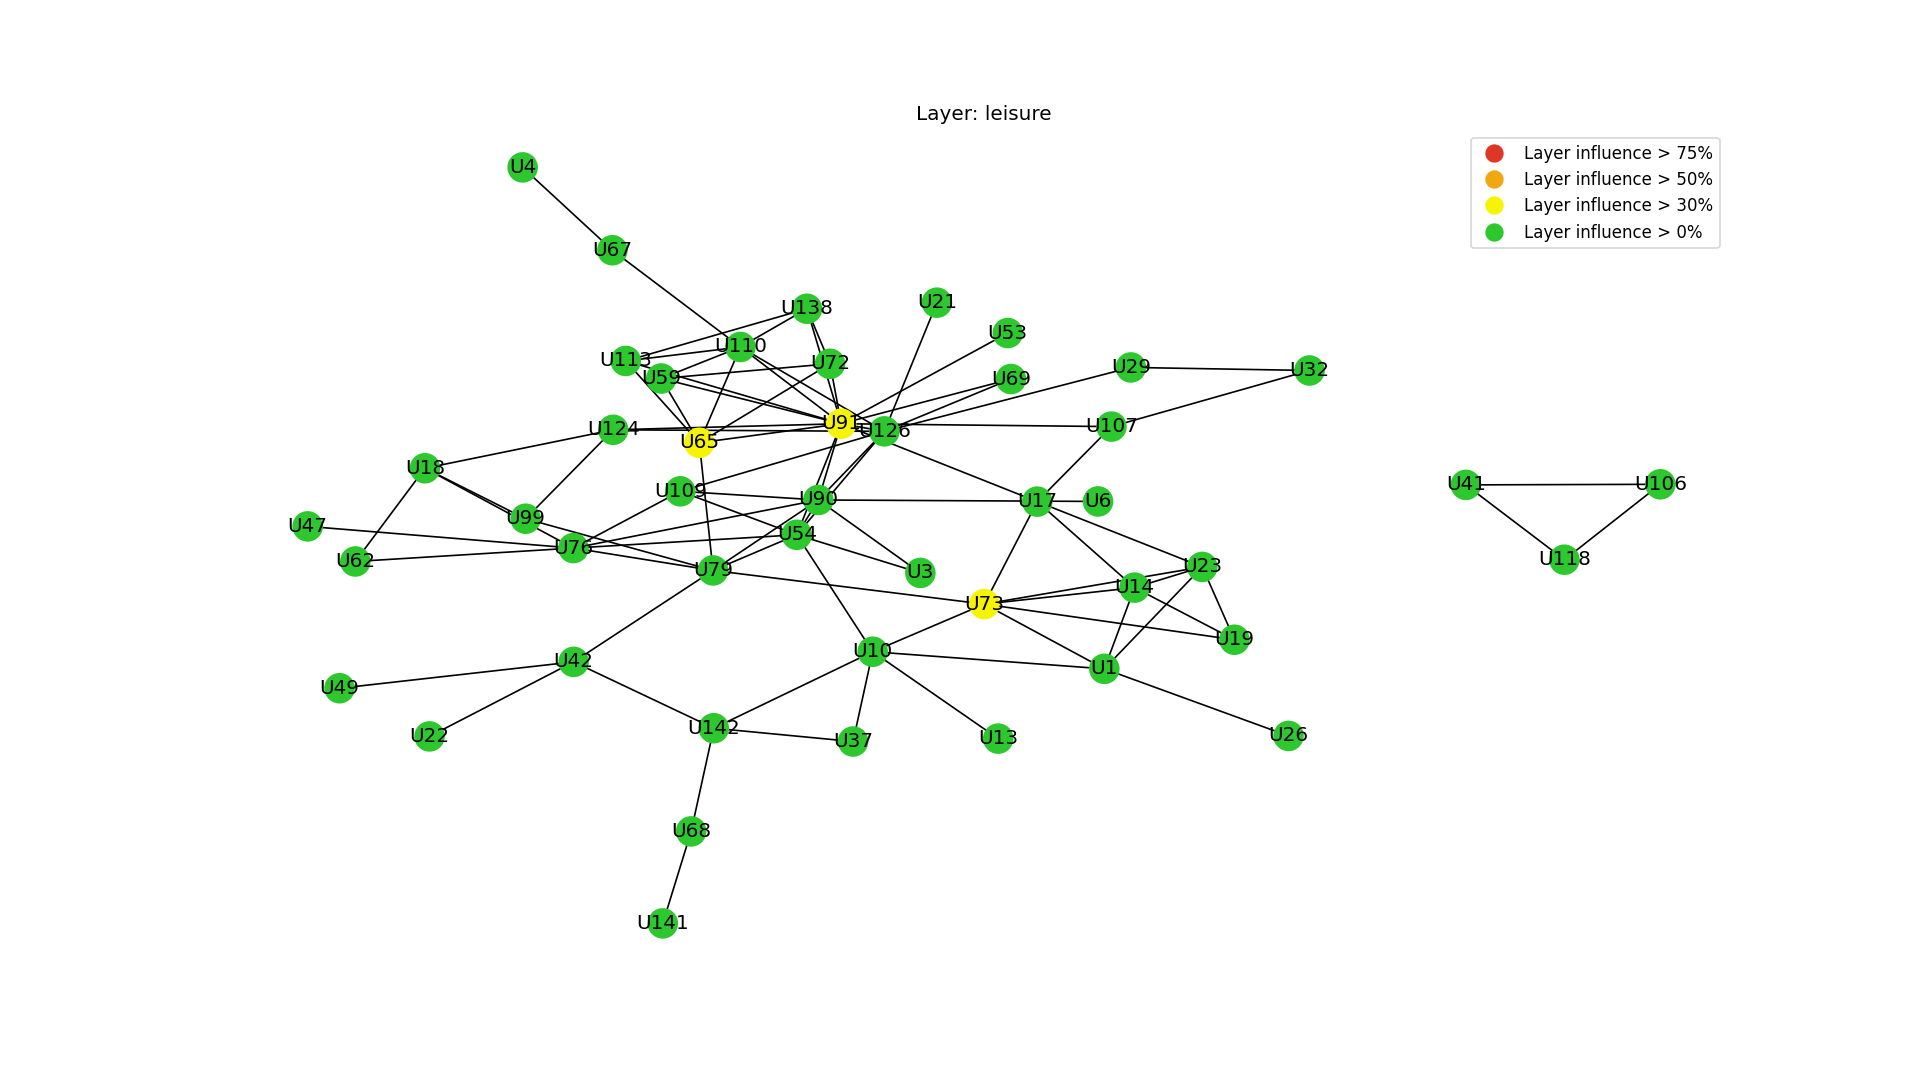
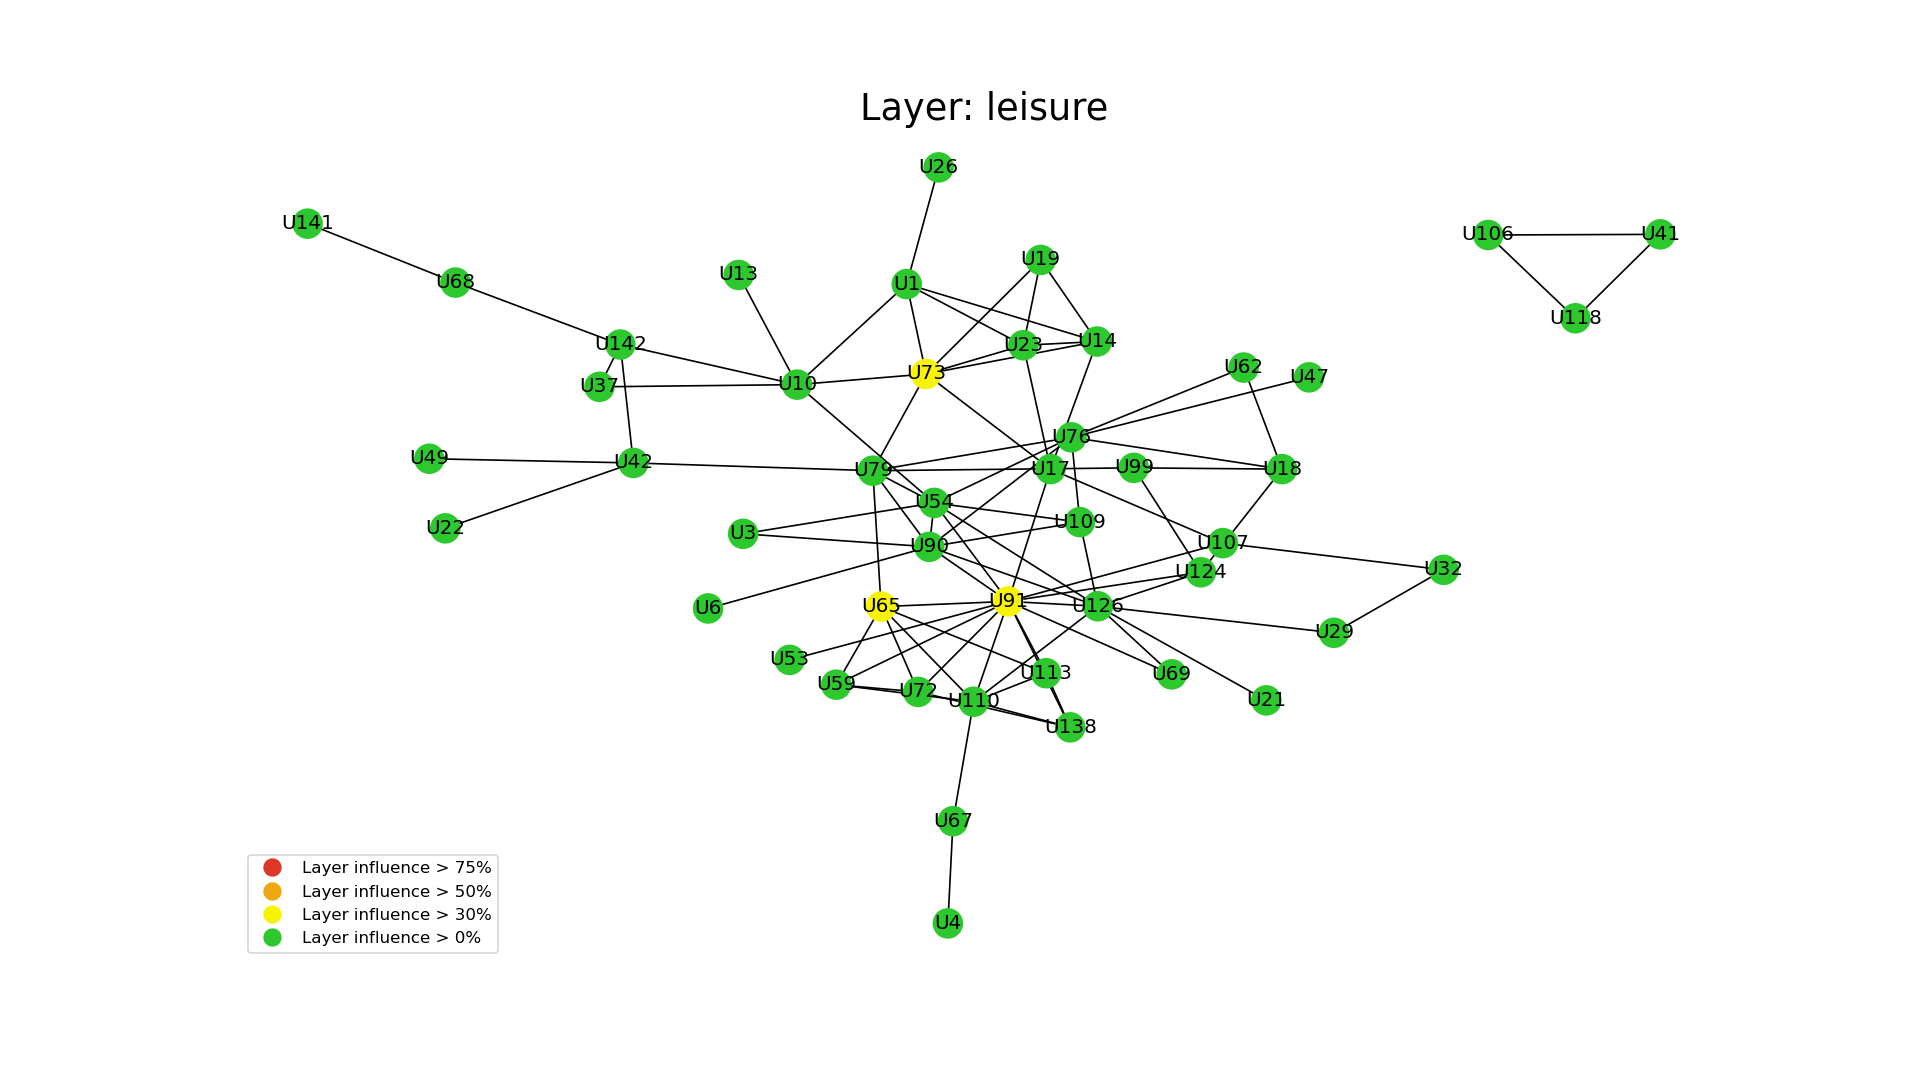
Refactors EigenvectorCentralityHelper to SubgraphCentralityHelper and adds subgraph centrality results

diff --git a/main/main_degree.py b/main/main_degree.py
@@ -20,7 +20,6 @@ centrality_helper = DegreeCentralityHelper(nx_layer_dict)
 
 nodes_layer_centrality_dict = compute_multinet_layer_centrality(nx_layer_dict, node_list, centrality_helper)
 nodes_shannon_entropy_dict = compute_shannon_entropy(nodes_layer_centrality_dict)
-# nodes_cluster_label_dict = compute_clusters(nodes_layer_centrality_dict, 3, 3, False)
 
 '''
 create_layer_combinations_node_communities(
@@ -38,6 +37,17 @@ results_data_frame['shannon_entropy'] = Series(nodes_shannon_entropy_dict, index
 results_data_frame.loc['mean'] = results_data_frame.mean()
 results_data_frame = results_data_frame.round(2)
 
+draw_results_layers(
+    DATASET_NAME,
+    centrality_helper.centrality_measure_name,
+    multilayered_network,
+    nodes_layer_centrality_dict,
+    True
+)
+
+save_results_data_frame_as_xlsx(DATASET_NAME, centrality_helper.centrality_measure_name, results_data_frame,
+                                1, 1, len(results_data_frame)-1, 5)
+
 '''
 degree_centrality_analysis_data_frame_list = [
     centralityHelper.get_node_degree_centrality_analysis(nx_layer_dict, nodes_layer_centrality_dict, 'U18'),
@@ -53,21 +63,13 @@ degree_centrality_analysis_data_frame_list = [
 draw_flattened_network_clustering_results(DATASET_NAME, centrality_helper.centrality_measure_name, data(DATASET_NAME),
                                           nodes_cluster_label_dict, True)
 
-draw_results_layers(DATASET_NAME, centrality_helper.centrality_measure_name, multilayered_network, nodes_layer_centrality_dict, True)
-
 plot_results_histograms(DATASET_NAME, centrality_helper.centrality_measure_name, results_data_frame,
                         vertices(multilayered_network)["layer"], 'Centrality Value', 'Number of Nodes',
                         20, 5, True)
+                        
 plot_results_histograms(DATASET_NAME, centrality_helper.centrality_measure_name, results_data_frame, 'shannon_entropy',
                         'Shannon Entropy Value', 'Number of Nodes', 3, 1, True)
 
 save_results_analysis_data_frames_as_xlsx(DATASET_NAME, centrality_helper.centrality_measure_name,
                                           degree_centrality_analysis_data_frame_list)
 '''
-
-save_results_data_frame_as_xlsx(DATASET_NAME, centrality_helper.centrality_measure_name, results_data_frame,
-                                1, 1, len(results_data_frame)-1, 5)
-
-# print(pd.DataFrame.from_dict(targetsShapleyValueDict).T)
-# targetsClusterDataFrame = computeClusters(targetsShapleyValueDict, 2, 3)
-# print(targetsClusterDataFrame)

diff --git a/main/main_subgraph.py b/main/main_subgraph.py
@@ -8,7 +8,7 @@ from utils.data_helper import draw_layers, get_node_connections_on_layers
 from utils.results_helper import plot_results_histograms, draw_results_layers, \
     save_results_analysis_data_frames_as_xlsx, save_results_data_frame_as_xlsx, \
     draw_flattened_network_clustering_results, draw_network_clustering_results
-from utils.EigenvectorCentralityHelper import EigenvectorCentralityHelper
+from utils.SubgraphCentralityHelper import SubgraphCentralityHelper
 
 DATASET_NAME = "aucs"
 
@@ -16,7 +16,7 @@ multilayered_network = data(DATASET_NAME)
 node_list = sorted(set(vertices(multilayered_network)["actor"]))
 nx_layer_dict = to_nx_dict(multilayered_network)
 
-centrality_helper = EigenvectorCentralityHelper(nx_layer_dict)
+centrality_helper = SubgraphCentralityHelper(nx_layer_dict)
 
 nodes_layer_centrality_dict = compute_multinet_layer_centrality(nx_layer_dict, node_list, centrality_helper)
 nodes_shannon_entropy_dict = compute_shannon_entropy(nodes_layer_centrality_dict)
@@ -26,5 +26,13 @@ results_data_frame['shannon_entropy'] = Series(nodes_shannon_entropy_dict, index
 results_data_frame.loc['mean'] = results_data_frame.mean()
 results_data_frame = results_data_frame.round(2)
 
+draw_results_layers(
+    DATASET_NAME,
+    centrality_helper.centrality_measure_name,
+    multilayered_network,
+    nodes_layer_centrality_dict,
+    True
+)
+
 save_results_data_frame_as_xlsx(DATASET_NAME, centrality_helper.centrality_measure_name, results_data_frame,
-                                1, 1, len(results_data_frame)-1, 5)
+                                1, 1, len(results_data_frame) - 1, 5)

diff --git a/main_test_network/main_test_subgraph.py b/main_test_network/main_test_subgraph.py
@@ -3,7 +3,7 @@ from pandas import DataFrame, Series
 from uunet.multinet import read, vertices, to_nx_dict
 from algo.layer_centrality import compute_multinet_layer_centrality
 from algo.analysis import compute_shannon_entropy
-from utils.EigenvectorCentralityHelper import EigenvectorCentralityHelper
+from utils.SubgraphCentralityHelper import SubgraphCentralityHelper
 
 project_root_path = dirname(dirname(__file__))
 
@@ -11,7 +11,7 @@ multi_layered_network = read("{0}/resources/test_network.txt".format(project_roo
 nodeList = sorted(set(vertices(multi_layered_network)["actor"]))
 nx_layer_dict = to_nx_dict(multi_layered_network)
 
-centrality_helper = EigenvectorCentralityHelper()
+centrality_helper = SubgraphCentralityHelper(nx_layer_dict)
 
 nodes_layer_centrality_dict = compute_multinet_layer_centrality(nx_layer_dict, nodeList, centrality_helper)
 nodes_shannon_entropy_dict = compute_shannon_entropy(nodes_layer_centrality_dict)

diff --git a/utils/SubgraphCentralityHelper.py b/utils/SubgraphCentralityHelper.py
@@ -1,0 +1,23 @@
+from networkx import subgraph_centrality
+from utils.CentralityHelper import CentralityHelper
+
+
+class SubgraphCentralityHelper(CentralityHelper):
+
+    centrality_measure_name = "subgraph_centrality"
+
+    def __init__(self, nx_layer_dict):
+        super().__init__(nx_layer_dict)
+
+    def get_node_centrality_dict(self, flattened_layer):
+        """
+        Returns a dictionary which contains the subgraph centrality measure for each node in :param flattened_layer,
+        obtained from a combination of layers.
+
+        :param flattened_layer: Networkx network which represents a flattened multilayered network, to which
+        the subgraph centrality measure is applied.
+        :return: Dictionary of subgraph centrality values for all nodes in the flattened network obtained from the
+        combination of layers.
+        """
+
+        return subgraph_centrality(flattened_layer)

diff --git a/utils/results_helper.py b/utils/results_helper.py
@@ -1,4 +1,5 @@
 import matplotlib.pyplot as plt
+from matplotlib import rcParams
 from matplotlib.lines import Line2D
 from uunet.multinet import to_nx_dict, flatten, layers
 from networkx import draw, nx_agraph
@@ -6,8 +7,13 @@ from pandas import set_option, ExcelWriter
 from os.path import dirname
 
 # Module scope settings
+
+# Pandas settings
 set_option('display.width', 1000)
 set_option('max.columns', 20)
+
+# Matplotlib settings
+# rcParams.update({'font.size': 22})
 
 """
 Dictionary containing settings for each class of layer influence.
@@ -76,7 +82,7 @@ def draw_results_layers(
 
         # Set fig size 1920x1080 pixels
         plt.figure(figsize=(16, 9), dpi=120)
-        plt.title("Layer: {0}".format(layer_name))
+        plt.title("Layer: {0}".format(layer_name), fontdict={'size': 22})
 
         pos = nx_agraph.graphviz_layout(layer, prog='neato')
 

diff --git a/algo/layer_centrality.py b/algo/layer_centrality.py
@@ -61,7 +61,8 @@ def compute_multinet_layer_centrality_for_node(
     shapley_value_sum = sum(shapley_value_dict.values())
 
     for key in shapley_value_dict:
-        shapley_value_dict[key] = shapley_value_dict[key] / shapley_value_sum * 100
+        if shapley_value_sum != 0:
+            shapley_value_dict[key] = shapley_value_dict[key] / shapley_value_sum * 100
 
     return shapley_value_dict
 
